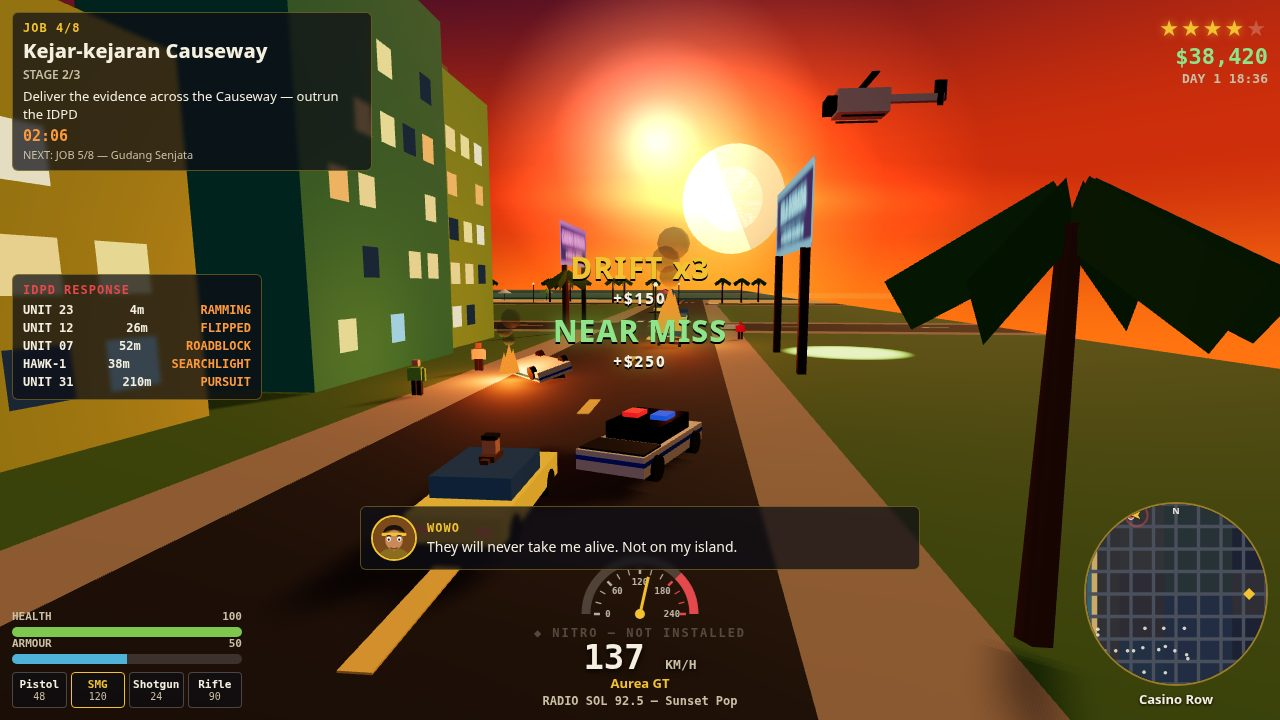
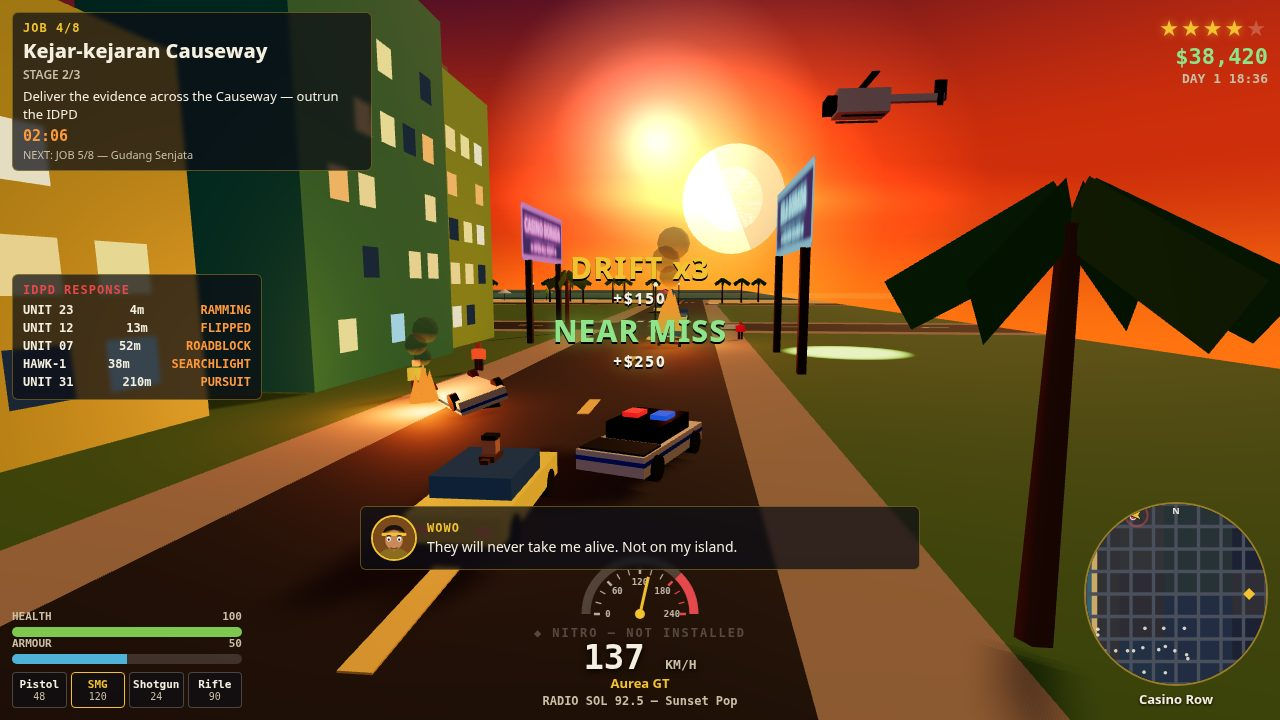
Fix: main.ts authored entrypoint (v1 rejected on thinking_reproduces) + map shows building boxes inside blocks + cover re-stage (flipped car closer, neon billboard prominent)

diff --git a/main.ts b/main.ts
@@ -1,12 +1,12 @@
-// A working gta6-01 entry (Node 22, standard library only): the game is this directory's
-// game/ folder, plain static files a desktop browser loads offline (game/index.html and its ES
-// modules, no library and no network request), and the program hands it in. It copies game/ and
-// screenshots/ from beside this file to /output and writes /output/dossier.json, the summary the
-// judge reads, with the vendored make.fun library. Only the plumbing, not an open world: Block
-// Dodger, a plain 2D canvas game where a paddle dodges falling blocks and catches coins, with a
-// title screen, score, lives and levels, game over and restart, flat colours and no sound. Build
-// your own open-world crime game in its place (three.js or any library you vendor under game/),
-// put your 3 or 4 PNG or JPEG screenshots in screenshots/ (the first by name is the cover) and run it.
+// Isla Dorada — "8 Jobs to Clear His Name" (gta6-01 entry, Node 22, stdlib only).
+// A three.js open-world crime game: Wowo, an ex-soldier dishonorably discharged,
+// drives, steals cars, outruns the IDPD and works 8 story jobs across a sunset
+// island city to clear his name. The game is this directory's game/ folder,
+// plain static files a desktop browser loads offline (game/index.html and its
+// ES modules, no library code fetched and no network request). This file is
+// the entrypoint: it copies game/ and screenshots/ from beside this file to
+// /output and writes /output/dossier.json, the summary the judge reads, with
+// the vendored make.fun library.
 //
 // Serve it locally with `node serve.ts`, then open http://localhost:8080.
 // Outside the grader's container, MAKEFUN_OUTPUT_DIR stands in for /output:
@@ -19,6 +19,10 @@ import { buildDossier } from './vendor/makefun-game.ts';
 
 const here = fileURLToPath(new URL('.', import.meta.url));
 const out = process.env.MAKEFUN_OUTPUT_DIR ?? '/output';
+
+// The entry this file packages (authored for this build).
+const ENTRY_NAME = 'Isla Dorada: 8 Jobs to Clear His Name';
+console.log(`Packaging ${ENTRY_NAME} -> ${out}`);
 
 mkdirSync(out, { recursive: true });
 cpSync(join(here, 'game'), join(out, 'game'), { recursive: true });

diff --git a/game/src/shots.js b/game/src/shots.js
@@ -262,7 +262,7 @@ function stageChase(G) {
   addSunFlare(G, -700, 135, -245, 320);
   // Neon billboards lining the road — pink casino sign (south side, facing
   // north toward the road) and a cyan island sign (north side, facing south).
-  addBillboard(G, -198, -270, Math.PI, 'CASINO DORADA', '#ff5ad9', '★ OPEN ALL NIGHT ★');
+  addBillboard(G, -184, -270, Math.PI, 'CASINO DORADA', '#ff5ad9', '★ OPEN ALL NIGHT ★');
   addBillboard(G, -168, -290.5, 0, 'ISLA DORADA', '#4fd9ff', '★ GOLDEN ISLAND ★');
 
   // IDPD with CONTACT: one unit ramming the player's FRONT quarter — angled
@@ -272,13 +272,13 @@ function stageChase(G) {
   setWanted(G, 4);
   const ram = spawnPoliceCar(G, PX - 4.5, PZ - 3.0, H + 2.8);
   ram.status = 'RAMMING';
-  const flipped = flipPoliceCar(G, PX - 20, PZ + 4.5, H + 0.7);
+  const flipped = flipPoliceCar(G, PX - 12, PZ + 5.5, H + 0.7);
   const block = spawnPoliceCar(G, PX - 52, PZ - 1.5, -H);
   block.status = 'ROADBLOCK';
   const heli = spawnHeli(G, PX - 34, PZ - 16, 18);
   G.police.units = [
     { name: 'UNIT 23', dist: 4, status: 'RAMMING', mesh: ram.mesh },
-    { name: 'UNIT 12', dist: 26, status: 'FLIPPED', mesh: flipped.mesh },
+    { name: 'UNIT 12', dist: 13, status: 'FLIPPED', mesh: flipped.mesh },
     { name: 'UNIT 07', dist: 52, status: 'ROADBLOCK', mesh: block.mesh },
     { name: 'HAWK-1', dist: 38, status: 'SEARCHLIGHT', mesh: heli.mesh },
     { name: 'UNIT 31', dist: 210, status: 'PURSUIT', mesh: null },

diff --git a/game/src/map.js b/game/src/map.js
@@ -173,6 +173,23 @@ export function drawMap(G) {
 
   drawRoads(c);
 
+  // Buildings: small boxes inside each block so the map reads as a city, not
+  // empty boxes. Blocks are the 80 m grid cells; roads are 12 m wide, so the
+  // boxes sit 10 m inside each block, clear of the road strokes. The west
+  // column is sea / beach, so it stays empty. Layout varies by a hash of the
+  // cell indices, so it is identical every time the map opens.
+  c.fillStyle = '#4d5c7d';
+  for (let i = 0; i < 8; i++) for (let j = 0; j < 8; j++) {
+    const bx = toPx(-320 + i * 80 + 10);
+    const bz = toPx(-320 + j * 80 + 10);
+    if (bx < toPx(-280)) continue;
+    const v = (i * 7 + j * 13) % 3;
+    c.fillRect(bx, bz, 22, 16);
+    c.fillRect(bx + 30, bz + 4, 18, 20);
+    if (v) c.fillRect(bx + 6, bz + 30, 20, 18);
+    if (v === 2) c.fillRect(bx + 34, bz + 32, 16, 14);
+  }
+
   // District names: small and faint, tucked into each district's top-left corner
   // (district centres coincide with landmark dots, so centre labels collide).
   // Drawn after the roads so road strokes never cross the text.
